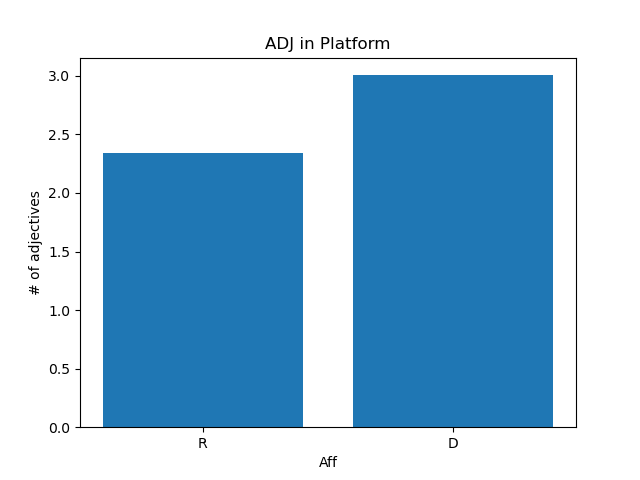
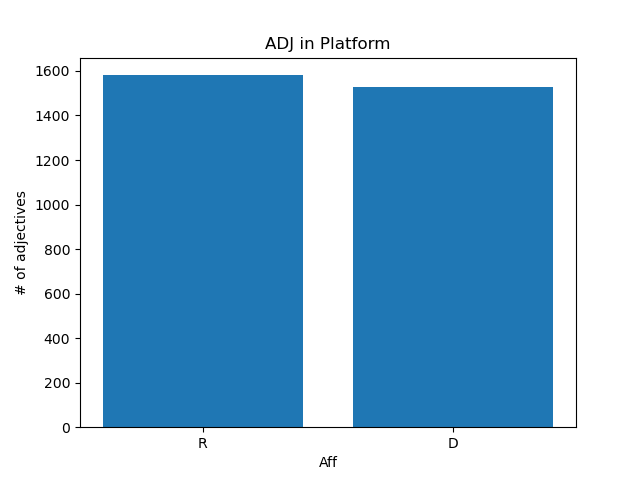
almost done

diff --git a/final_report.md b/final_report.md
@@ -160,17 +160,42 @@ Seen above: This definitely tells me a bit more about the topics being emphasize
 
 #### Results of the Second Hypothesis
 
+For the second hypothesis I was interested in adjectives and how they were used not only between R and D, but also how they were used when comparing between the different "modes" of persuasion.
+
+Here are the results of that analysis:
+
 ![Speech Adjectives](images/adj_speech.png)
 ![Debate Adjectives](images/adj_alldebate.png)
-![Pres](images/adj_pres.png)
-![VP](images/adj_vp.png)
-![Donnie](images/adj_donnie.png)
 ![Platform Adjectives](images/adj_plat.png)
+
+These use the counts of adjectives, and shows that Republicans do, in fact, generally use more adjectives. this supports my hypothesis, and made me wonder what kind of adjectives were we talking. So, I found the most frequently used adjectives between both parties, shown in the graph below.
+
 ![ADJ Freq](images/adj_freq.png)
 
-![Compare Count](images/count_adj_all.png)
-![Compare AVG](images/avg_adj_all.png)
+This threw me off a bit because the adjectives here were kind of basic and not really all that interesting, and I started wondering if maybe Republicans just used "American" more often or something like that, so I took a peak at the adjectives being used in the debate speeches:
 
 ![Dem ADJ](images/dem_adj.png)
 ![Rep ADJ](images/rep_adj.png)
+
+When I ran the adjectives through print_top, I found the most informative adjectives, which actually surprised me. Sure, the most frequently used adjectives were pretty neutral, but when looking at what kind of adjs Republicans and Democrats were using, I can definitely tell the Republicans were using more \~fancy\~ words than the Democrats, who while they used adjectives, were using less and were using more neutral ones.
+
+After this, since the other analysis I was working with involved comparing the three "modes", I compared them all in bar graphs below.
+
+![Compare Count](images/count_adj_all.png)
+
+After realizing that count wouldn't work for this, I used the average:
+
+![Compare AVG](images/avg_adj_all.png)
+
+The debates were using more, than the platforms, then the speeches. My hypothesis was correct for the debates being the first, but once again platforms surprised me. I think this could definitley be the result of the frequently used adjectives list above, where the platforms are just using more words like "American", "public", etc.
+
+Further analysis involved looking at the use of Comparative and Superlative adjectives between Donald Trump and Joe Biden, and the results were not surprising but definitely interesting to see so outwardly obvious.
+
+![Donnie](images/adj_donnie.png)
+
 ## Conclusion
+In conclusion, this project was a lot of fun and I was able to explore a topic that I'm really interested in. As with most things, I definitely wish I could go back and play with a lot of different things, but I honestly feel like this isn't the end for me with this project (even though technically it is). I was honestly really excited about my results, and I've embarrassingly told a lot of people (who are probably not as interested in politics as me) about what I found out, which is exciting within its self. So I can see myself using this information and the python knowledge I've accumulated this entire trip in the future.
+
+I'm pretty sad that by the time of me turning this in, the nbviewer page will probably not have worked yet, meaning that I wasn't able to convert the jupyter notebooks into a format that would allow people to view the table of contents, but alas \:(
+
+But let's not end on a sad note! Thank you so much Na Rae, Joey, and the whole of the Data Science for Linguists 2021 class for your help and useful feedback throughout this entire semester!
